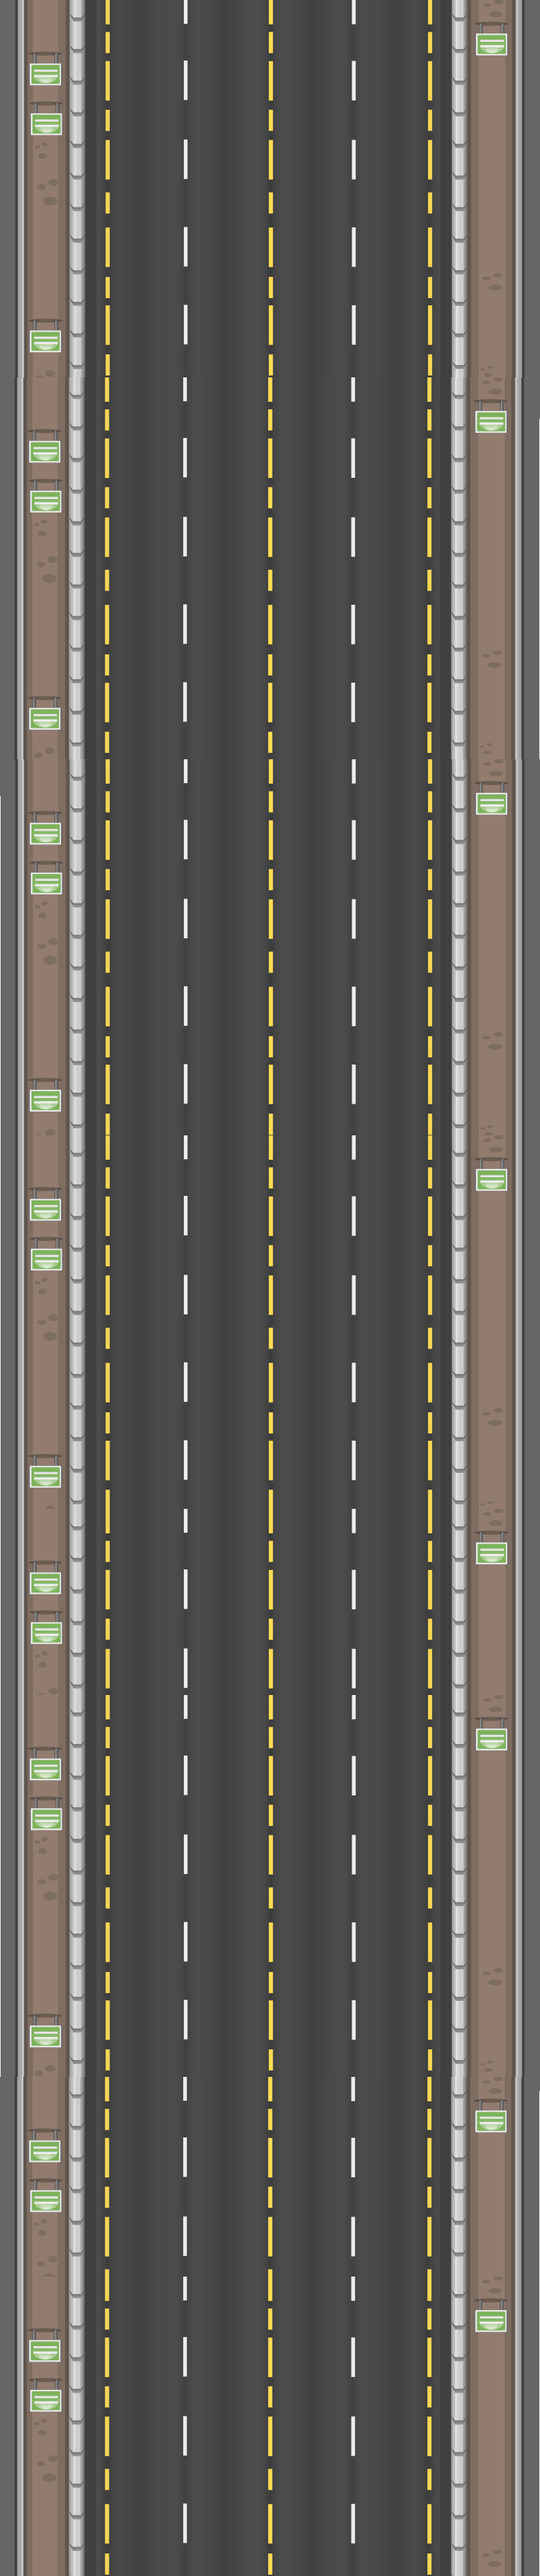
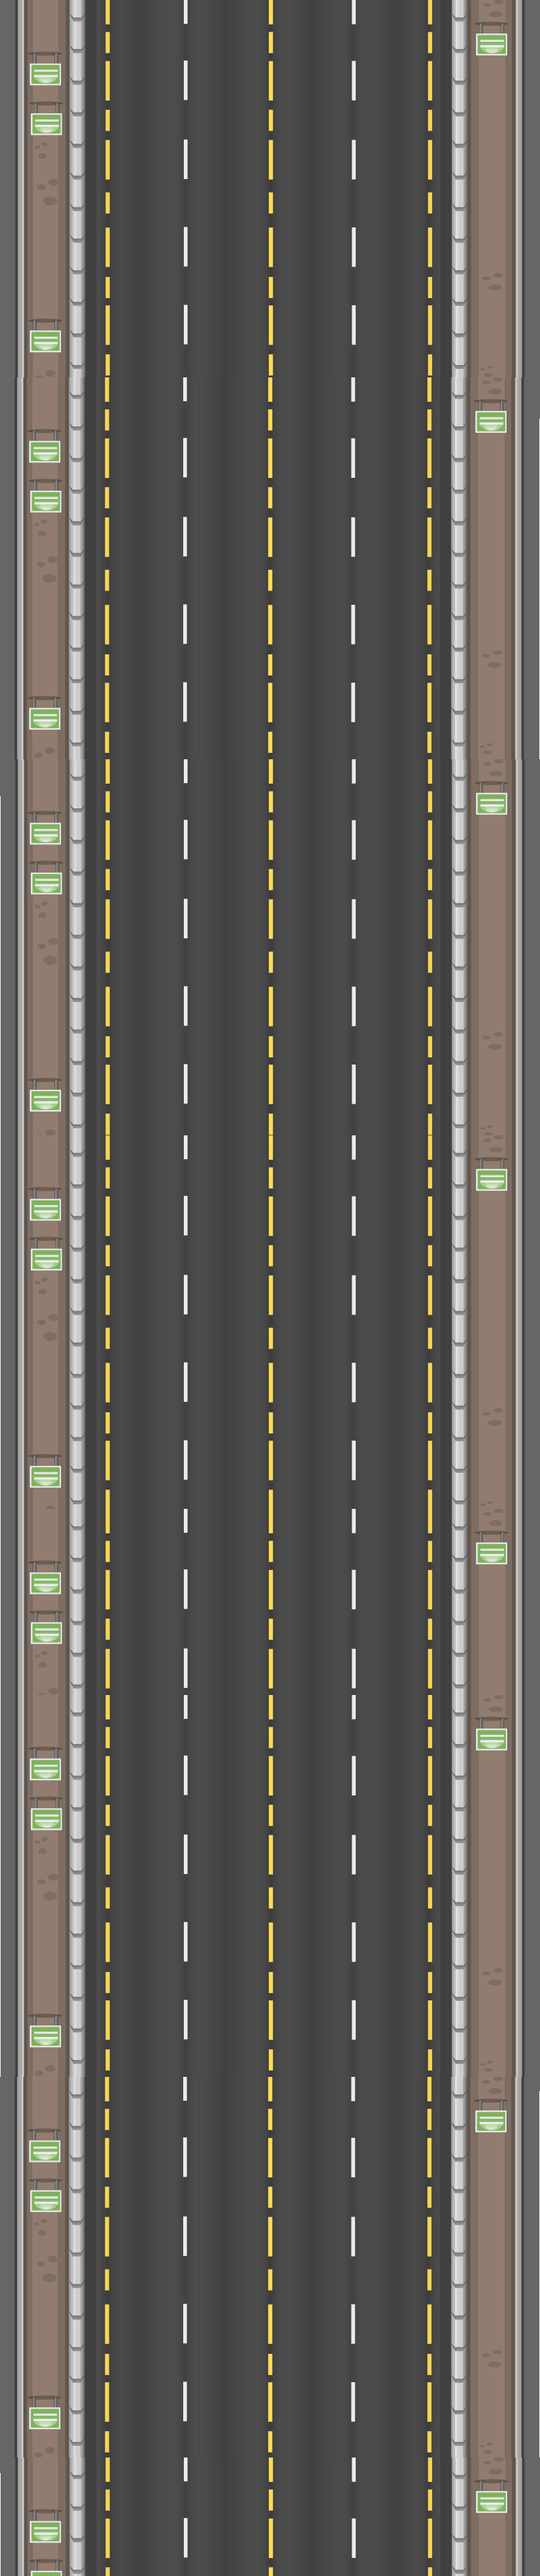
add brake

diff --git a/stage.js b/stage.js
@@ -3,18 +3,16 @@ class Stage  {
     this.position = {x,y};
     this.ctx = ctx;
     this.velocity = 10;
-    this.backgroundY = 3200;
+    this.backgroundY = -3200;
   }
   _accelerationStage(){
   this.velocity++
   }   
   _brake(){
-
-
-
-  }            
+    this.velocity--
+  }
   _parallax(){
-    if(this.backgroundY > 0){
+    if(this.backgroundY > -20){
       this.backgroundY+= this.velocity;
       return this.backgroundY = -3200;
     }else{
@@ -22,7 +20,7 @@ class Stage  {
   }
 }
   _drawStage(){
-    this.ctx.drawImage(background, 0, this.backgroundY,500,800);
+    this.ctx.drawImage(background, 0, this.backgroundY,500,4000);
   
   }
 }

diff --git a/game.js b/game.js
@@ -42,6 +42,10 @@ assingControlKeys(){
         break;
       case 32: this.obstacle._acceleration();
                 this.stage._accelerationStage();
+       break;
+      case 32: this.obstacle._desacceleration();
+              this.stage._brake();
+        break;
     }
   }
 
